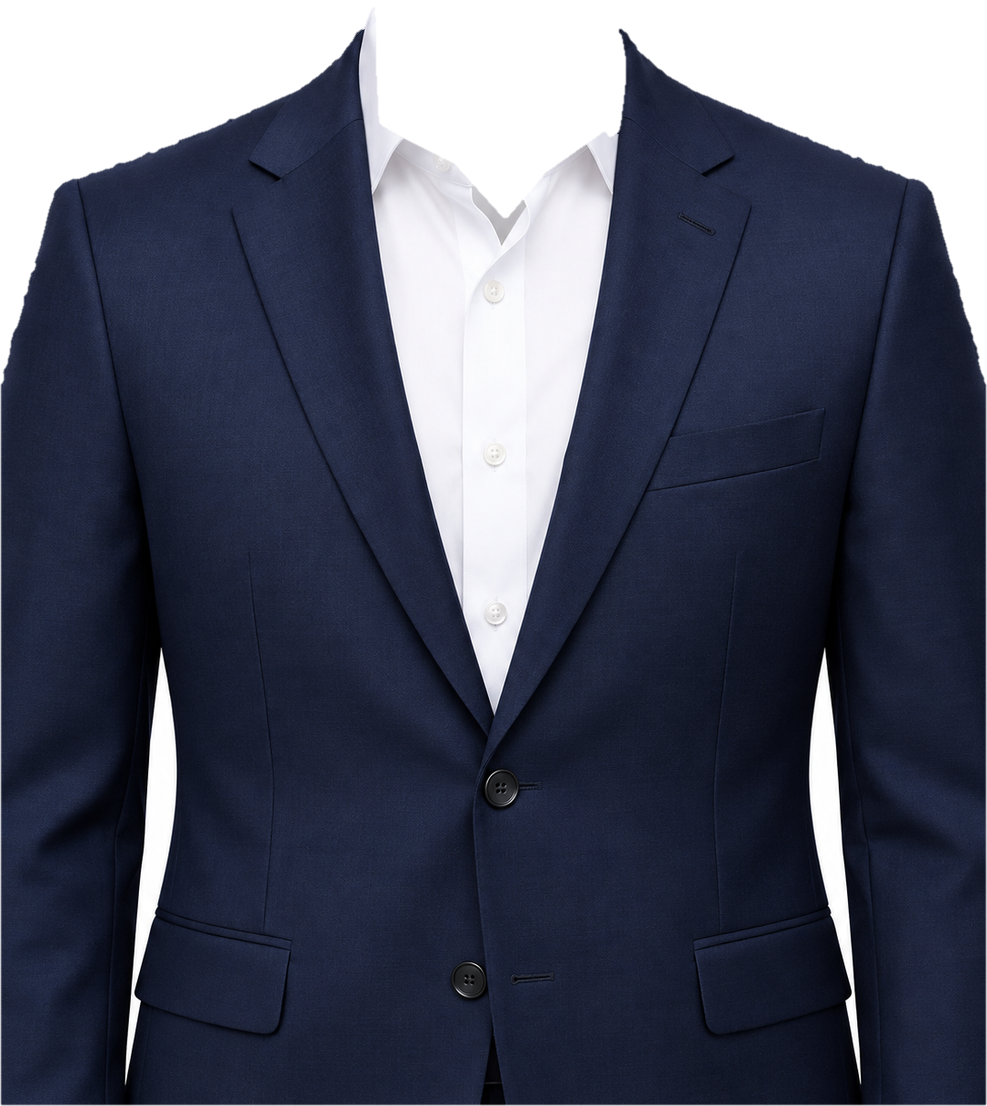
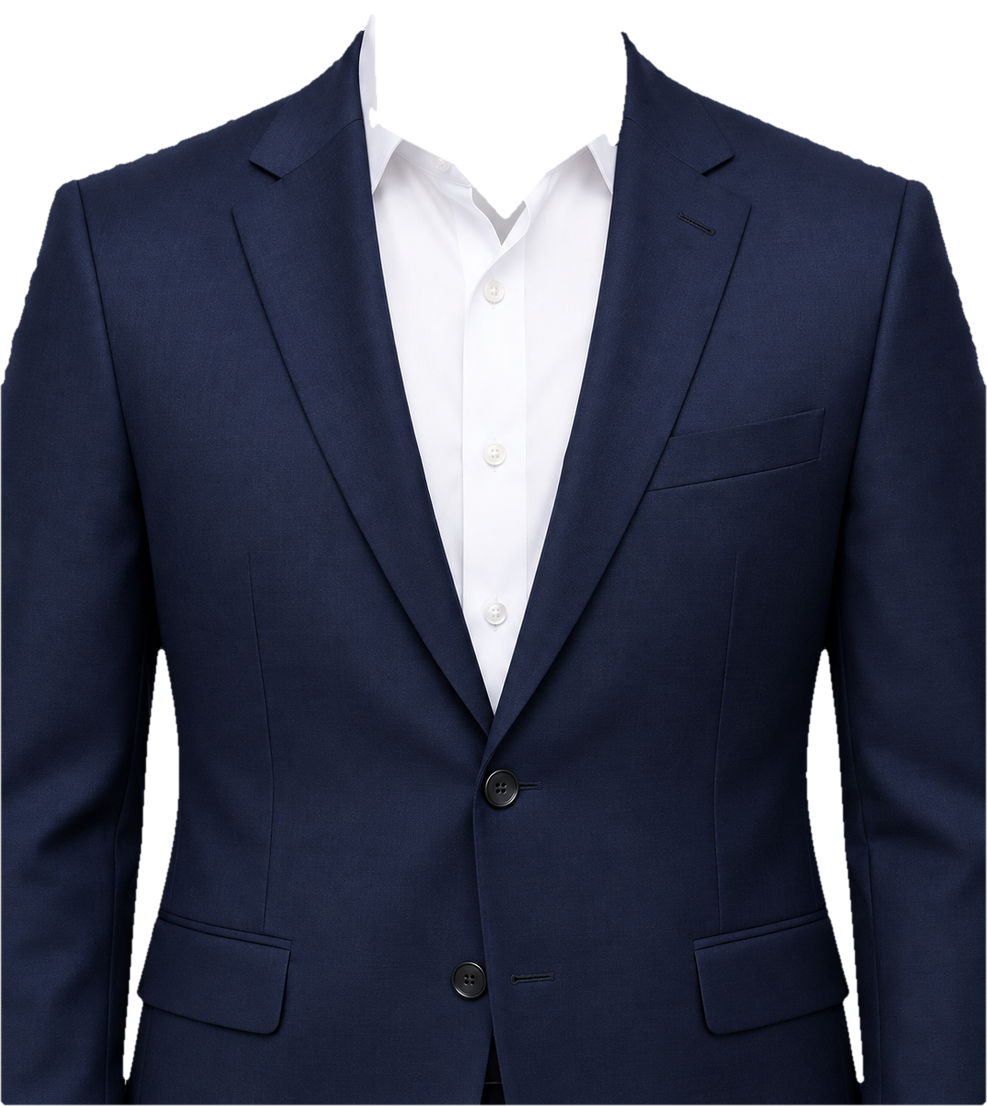
v2.7.02: audit total 10 aset jas (celah lengan transparan), leher rapat otomatis tanpa slider, pembersihan samping lengan
Claude-Session: https://claude.ai/code/session_01H9v6RvzjEdCecseBnBHk3u

diff --git a/index.html b/index.html
@@ -373,12 +373,7 @@ dialog .btn{margin-top:18px;width:100%}
         <input type="range" id="aSize" min="40" max="250" value="100">
         <span id="aSizeVal">100%</span>
       </div>
-      <div class="zoomrow" id="aNeckRow">
-        <span class="lbl">Batas leher</span>
-        <input type="range" id="aNeck" min="15" max="100" value="45">
-        <span id="aNeckVal">45%</span>
-      </div>
-      <p class="note">Ketuk jas atau dasi di foto untuk memilih. Geser satu jari untuk memindahkan, cubit dua jari untuk ukuran. Ketuk dan tahan dasi untuk memunculkan 8 titik, lalu tarik titik untuk membuat dasi kurus, gendut, panjang, atau pendek. Ketuk di luar dasi untuk menyembunyikan titik. Batas leher mengatur seberapa jauh leher atau kerudung terlihat di dalam kerah; di bawahnya diisi kemeja.</p>
+      <p class="note">Ketuk jas atau dasi di foto untuk memilih. Geser satu jari untuk memindahkan, cubit dua jari untuk ukuran. Ketuk dan tahan dasi untuk memunculkan 8 titik, lalu tarik titik untuk membuat dasi kurus, gendut, panjang, atau pendek. Ketuk di luar dasi untuk menyembunyikan titik.</p>
       <button class="btn block" id="aReset">Atur ulang posisi</button>
       <p class="msg" id="msg4"></p>
     </div>
@@ -389,7 +384,7 @@ dialog .btn{margin-top:18px;width:100%}
 
 <dialog id="about">
   <h2>SmartBG</h2>
-  <p class="ver">Versi 2.7.01</p>
+  <p class="ver">Versi 2.7.02</p>
 
   <h4>Deskripsi singkat</h4>
   <p>Aplikasi penghapus latar belakang pas foto. Pilih warna latar (putih, merah, biru, dan lainnya), rapikan tepi, ubah rasio, lalu simpan atau bagikan.</p>
@@ -502,6 +497,11 @@ function jasInfo(item,img){
   const top=new Int32Array(w).fill(-1);
   for(let i=0;i<w;i++){ for(let y=0;y<h;y++) if(d[(y*w+i)*4+3]>=128){ top[i]=y; break; } }
   let jl=0, jr=w-1; while(jl<w&&top[jl]<0) jl++; while(jr>0&&top[jr]<0) jr--;
+  // garis potong luar: dari tengah ke samping tidak boleh turun lebih curam dari bahu,
+  // agar celah di samping lengan (lengan melebar ke bawah) ikut dibersihkan
+  const cut=Float32Array.from(top,v=>v<0?1e9:v), sl=1.2;
+  for(let i=cx-1;i>=0;i--) cut[i]=Math.min(cut[i],cut[i+1]+sl);
+  for(let i=cx+1;i<w;i++) cut[i]=Math.min(cut[i],cut[i-1]+sl);
   const spans=[]; let vy=0;
   for(let y=0;y<h;y++){
     const r=y*w; if(d[(r+cx)*4+3]>=128){ vy=y; break; }
@@ -511,23 +511,31 @@ function jasInfo(item,img){
     spans.push([l-dil, rr+dil]);
   }
   if(!vy) vy=item.leherV;
-  let sr=0,sg=0,sb=0,n=0;                        // warna kemeja tepat di bawah ujung V
-  for(let y=vy+6;y<Math.min(h,vy+40);y+=2) for(let i=cx-14;i<=cx+14;i+=2){
-    const o=(y*w+i)*4; if(d[o+3]<200) continue; sr+=d[o]; sg+=d[o+1]; sb+=d[o+2]; n++;
+  // baris di atas ujung kerah belum dibatasi kiri-kanan (lebar penuh): pakai lebar baris pertama yang terbatas
+  let y0=spans.findIndex(([l,rr])=>l>dil && rr<w-1-dil);
+  if(y0<0) y0=0;
+  for(let y=0;y<y0;y++) spans[y]=spans[y0].slice();
+  const smp=[];                                  // warna kemeja di bawah ujung V (bagian terang, bukan bayangan)
+  for(let y=vy+6;y<Math.min(h,vy+60);y+=2) for(let i=cx-30;i<=cx+30;i+=2){
+    const o=(y*w+i)*4; if(i<0||i>=w||d[o+3]<220) continue; smp.push([d[o],d[o+1],d[o+2],d[o]+d[o+1]+d[o+2]]);
   }
+  smp.sort((a,b)=>a[3]-b[3]);
+  let sr=0,sg=0,sb=0,n=0;
+  for(let q=Math.floor(smp.length*0.55);q<Math.floor(smp.length*0.9);q++){ sr+=smp[q][0]; sg+=smp[q][1]; sb+=smp[q][2]; n++; }
   const shirt=n?[sr/n,sg/n,sb/n]:[240,240,240];
-  const o={w,h,top,jl,jr,spans,vy,cx,shirt}; A.info[item.id]=o; return o;
+  const o={w,h,top,cut,jl,jr,spans,vy,cx,shirt,y0,d}; A.info[item.id]=o; return o;
 }
-// Garis batas leher (baris aset) pada kolom x: makin dalam di tengah, naik ke tepi kerah
+// Garis batas leher (baris aset) pada kolom x: makin dalam di tengah, naik ke tepi kerah. Tetap, tanpa slider
 function neckLine(I,x){
-  const half=Math.max(1,(I.spans[0]?(I.spans[0][1]-I.spans[0][0])/2:120));
+  const hs=I.spans[I.y0]||[I.cx-120,I.cx+120], half=Math.max(1,(hs[1]-hs[0])/2);
   const t=Math.min(1,Math.abs(x-I.cx)/half);
-  return I.vy*A.neck*(1-0.6*t*t) + 0.1*I.vy*(1-t);   // berbentuk U: tepi kerah lebih tinggi
+  const D=Math.max(20,Math.min(0.36*240, I.vy-I.y0-12));   // leher terlihat sedalam ini dari ujung kerah
+  return I.y0 + D*(1-0.55*t*t);                              // lengkung lembut, tepi kerah lebih tinggi
 }
 // Batas potong foto asli pada kolom aset x: di bawah garis ini tubuh lama disembunyikan
 function cutRow(I,x){
-  const t=I.top[x]; if(t<0) return 0;
-  const inHole=I.spans[0] && x>=I.spans[0][0] && x<=I.spans[0][1];
+  const t=I.cut[clamp(Math.round(x),0,I.w-1)]; if(t>=1e9) return 0;
+  const hs=I.spans[I.y0], inHole=hs && x>=hs[0] && x<=hs[1];
   return inHole ? Math.min(t, neckLine(I,x)) : t+2;
 }
 // Topeng "sembunyikan" (resolusi 1/2, koordinat foto). Di dalam lebar jas mengikuti garis atas jas,
@@ -535,46 +543,63 @@ function cutRow(I,x){
 function hideMask(){
   if(!(S.mask && A.placed && A.jas && A.jasImg)) return null;
   const W=S.img.width, H=S.img.height, q=2, w=Math.ceil(W/q), h=Math.ceil(H/q), soft=!A.drag;
-  const key=[A.jas.id,A.tx.toFixed(1),A.ty.toFixed(1),A.k.toFixed(4),A.neck,W,H,soft].join('|');
+  const key=[A.jas.id,A.tx.toFixed(1),A.ty.toFixed(1),A.k.toFixed(4),W,H,soft].join('|');
   if(A.hm2 && A.hmKey===key) return A.hm2;
   if(!A.hm || A.hm.width!==w || A.hm.height!==h){ A.hm=mk(w,h); A.hm2=mk(w,h); }
   const I=jasInfo(A.jas,A.jasImg), k=A.k, ox=A.tx-A.jas.leherX*k, oy=A.ty;
   const X=x=>(ox+x*k)/q, Y=y=>(oy+y*k)/q;
   const m=A.hm.getContext('2d');
   m.setTransform(1,0,0,1,0,0); m.clearRect(0,0,w,h); m.fillStyle='#fff';
-  const yc=Y(Math.max(0,I.top[I.jl]>=0?Math.min(I.top[I.jl],I.top[I.jr]):0));
-  m.fillRect(0,Y(0),Math.max(0,X(I.jl)),h);                    // kiri luar jas
-  m.fillRect(X(I.jr),Y(0),Math.max(0,w-X(I.jr)),h);            // kanan luar jas
-  m.beginPath(); m.moveTo(X(I.jl),h+2);
+  // satu bentuk utuh (tanpa sambungan): luar jas kiri, garis atas jas, luar jas kanan
+  m.beginPath(); m.moveTo(-4,h+4); m.lineTo(-4,Y(cutRow(I,0)));
   const st=Math.max(1,Math.round(1.5*q/k));
-  for(let x=I.jl;x<=I.jr;x+=st) m.lineTo(X(x),Y(cutRow(I,x)));
-  m.lineTo(X(I.jr),Y(cutRow(I,I.jr))); m.lineTo(X(I.jr),h+2); m.closePath(); m.fill();
+  for(let x=0;x<I.w;x+=st) m.lineTo(X(x),Y(cutRow(I,x)));
+  m.lineTo(X(I.w-1),Y(cutRow(I,I.w-1))); m.lineTo(w+4,Y(cutRow(I,I.w-1))); m.lineTo(w+4,h+4); m.closePath(); m.fill();
   const m2=A.hm2.getContext('2d'); m2.setTransform(1,0,0,1,0,0); m2.clearRect(0,0,w,h);
-  if(soft){ try{ m2.filter='blur('+Math.max(0.6,0.006*240*k/q).toFixed(2)+'px)'; }catch(_){} }
+  if(soft){ try{ m2.filter='blur('+Math.max(0.8,0.014*240*k/q).toFixed(2)+'px)'; }catch(_){} }
   m2.drawImage(A.hm,0,0); m2.filter='none';
   A.hmKey=key; return A.hm2;
 }
-// Isian kemeja di lubang leher di bawah batas leher (ukuran aset), diwarnai kemeja jas itu sendiri
+// Kemeja tertutup (ukuran aset), dipasang DI BELAKANG foto orang. Kainnya diambil dari kemeja jas itu sendiri
+// (bagian di bawah ujung V dicerminkan ke atas dan direntang selebar lubang), jadi tekstur dan warnanya cocok.
+// Di atas garis leher (samping leher) kain digelapkan = sisi dalam kerah; di bawahnya bayangan leher halus.
 function shirtFill(){
-  const I=jasInfo(A.jas,A.jasImg), key=A.jas.id+'|'+A.neck;
+  const I=jasInfo(A.jas,A.jasImg), key=A.jas.id;
   if(A.fill && A.fillKey===key) return A.fill;
-  const c=A.fill&&A.fill.width===I.w&&A.fill.height===I.h?A.fill:mk(I.w,I.h), x=c.getContext('2d');
-  x.setTransform(1,0,0,1,0,0); x.globalCompositeOperation='source-over'; x.clearRect(0,0,I.w,I.h);
-  const [r,g,b]=I.shirt, col=f=>'rgb('+Math.round(r*f)+','+Math.round(g*f)+','+Math.round(b*f)+')';
-  x.fillStyle=col(1);
-  I.spans.forEach(([l,rr],y)=>x.fillRect(l,y,rr-l+1,1));
-  x.fillRect(I.cx-I.vy*0.2,I.vy-2,I.vy*0.4,12);              // menutup ujung V
-  // buang bagian di atas batas leher
-  x.globalCompositeOperation='destination-out'; x.beginPath(); x.moveTo(-5,-5);
-  for(let i=0;i<=I.w;i+=4) x.lineTo(i,neckLine(I,i)); x.lineTo(I.w+5,-5); x.closePath(); x.fill();
-  // bayangan lembut di bawah dagu/kerudung dan di tengah (kesan kain)
+  const {w,h,d,cx,vy,y0,shirt}=I, c=mk(w,h), x=c.getContext('2d');
+  const out=x.createImageData(w,h), o=out.data;
+  const far=(p)=>Math.abs(d[p]-shirt[0])+Math.abs(d[p+1]-shirt[1])+Math.abs(d[p+2]-shirt[2])>110 || d[p+3]<200;
+  const segOf=sy=>{ // kain kemeja pada baris sumber: dari tengah ke kiri/kanan sampai bukan kemeja
+    const r=sy*w; let l=cx, rr=cx;
+    while(l>0 && !far((r+l-1)*4) && cx-l<200) l--;
+    while(rr<w-1 && !far((r+rr+1)*4) && rr-cx<200) rr++;
+    return [l,rr];
+  };
+  const yEnd=Math.min(h-1,vy+14);
+  for(let y=y0;y<=yEnd;y++){
+    const sp=I.spans[Math.min(y,I.spans.length-1)]||[cx-20,cx+20];
+    let sy=Math.min(h-1, vy+8+Math.max(0,vy-y)); let seg=segOf(sy);
+    if(seg[1]-seg[0]<12){ sy=Math.min(h-1,vy+10); seg=segOf(sy); }
+    if(seg[1]-seg[0]<6) continue;
+    const L=Math.max(0,sp[0]), R=Math.min(w-1,sp[1]);
+    for(let xx=L;xx<=R;xx++){
+      // tengah tetap di tengah (belahan kancing lurus), sisi direntang
+      const f=(xx-cx)/Math.max(1,(xx<cx?cx-L:R-cx));
+      const sx=Math.round(cx+f*(xx<cx?cx-seg[0]:seg[1]-cx));
+      const sp4=(sy*w+clamp(sx,0,w-1))*4, tp=(y*w+xx)*4;
+      o[tp]=d[sp4]; o[tp+1]=d[sp4+1]; o[tp+2]=d[sp4+2]; o[tp+3]=255;
+    }
+  }
+  x.putImageData(out,0,0);
   x.globalCompositeOperation='source-atop';
-  const n0=neckLine(I,I.cx), gr=x.createLinearGradient(0,n0-0.12*I.vy,0,n0+0.18*I.vy);
-  gr.addColorStop(0,'rgba(0,0,0,.28)'); gr.addColorStop(1,'rgba(0,0,0,0)');
-  x.fillStyle=gr; x.fillRect(0,0,I.w,I.h);
-  const gx=x.createLinearGradient(I.cx-0.25*I.vy,0,I.cx+0.25*I.vy,0);
-  gx.addColorStop(0,'rgba(0,0,0,0)'); gx.addColorStop(.5,'rgba(0,0,0,.06)'); gx.addColorStop(1,'rgba(0,0,0,0)');
-  x.fillStyle=gx; x.fillRect(0,0,I.w,I.h);
+  const n0=neckLine(I,cx);
+  x.save(); x.beginPath(); x.moveTo(-5,-5);           // sisi dalam kerah (di samping leher)
+  for(let i=0;i<=w;i+=4) x.lineTo(i,neckLine(I,i)); x.lineTo(w+5,-5); x.closePath(); x.clip();
+  x.fillStyle='rgba(0,0,0,.10)'; x.fillRect(0,0,w,h); x.restore();
+  x.save(); x.beginPath(); x.moveTo(-5,h);           // bayangan leher jatuh di kemeja
+  for(let i=0;i<=w;i+=4) x.lineTo(i,neckLine(I,i)); x.lineTo(w+5,h); x.closePath(); x.clip();
+  const gs=x.createLinearGradient(0,n0-4,0,n0+0.12*240); gs.addColorStop(0,'rgba(0,0,0,.16)'); gs.addColorStop(1,'rgba(0,0,0,0)');
+  x.fillStyle=gs; x.fillRect(0,0,w,h); x.restore();
   x.globalCompositeOperation='source-over';
   A.fill=c; A.fillKey=key; return c;
 }
@@ -590,6 +615,9 @@ function drawPerson(ctx,x,y,w,h){
   t.imageSmoothingEnabled=true; t.imageSmoothingQuality='high';
   t.drawImage(source(),x,y,w,h);
   t.globalCompositeOperation='destination-out'; t.drawImage(hm,x,y,w,h);
+  const sc=w/S.img.width, k=A.k;                    // sisi dalam kerah di belakang leher (tidak ada celah warna latar)
+  t.globalCompositeOperation='destination-over';
+  t.drawImage(shirtFill(), x+(A.tx-A.jas.leherX*k)*sc, y+A.ty*sc, A.jas.lebar*k*sc, A.jas.tinggi*k*sc);
   t.globalCompositeOperation='source-over'; t.setTransform(1,0,0,1,0,0);
   ctx.save(); ctx.setTransform(1,0,0,1,0,0); ctx.drawImage(A.tmp,0,0); ctx.restore();
 }
@@ -605,7 +633,6 @@ function drawAttrs(ctx){
   ctx.imageSmoothingEnabled=true; ctx.imageSmoothingQuality='high';
   const k=A.k;
   if(A.jas && A.jasImg){
-    ctx.drawImage(shirtFill(), A.tx-A.jas.leherX*k, A.ty, A.jas.lebar*k, A.jas.tinggi*k);
     ctx.drawImage(A.jasImg, A.tx-A.jas.leherX*k, A.ty, A.jas.lebar*k, A.jas.tinggi*k);
   }
   const bx=A.dasiImg?tieBox():null;
@@ -2427,7 +2454,7 @@ $('aSize').addEventListener('input',e=>{
   aChanged();
 });
 document.querySelectorAll('#aSelSeg button').forEach(b=>b.onclick=()=>{ aSetSel(b.dataset.sel); aTieEdit(b.dataset.sel==='dasi'); });
-$('aNeck').addEventListener('input',e=>{ A.neck=+e.target.value/100; $('aNeckVal').textContent=e.target.value+'%'; requestDraw(); });
+
 $('aReset').onclick=async()=>{
   if(!S.mask||S.busy||!A.placed) return;
   setBusy(true,'Mengatur ulang posisi…');

diff --git a/docs/STATUS.md b/docs/STATUS.md
@@ -52,6 +52,13 @@ Tujuan sama: pas foto, hapus background, pilih warna latar, ubah rasio, ekspor. 
 - Catatan: jas wol dan blazer hitam dipotong di atas saku; blazer hitam punya celah gelap kecil di sisi pinggang (bagian dalam jas)
 - Total aset ±15 MB; berkas ini terpisah dari index.html dan akan masuk bundel APK
 
+### v2.7.02 (29 Okt 2026): audit total aset jas dan leher rapat
+- Audit 10 berkas jas (repo berisi 10 jas, bukan 12): celah putih di antara lengan dan badan dibuat transparan (9 jas), celah gelap berbingkai garis di sisi Blazer Hitam dibuang, tepi dihaluskan ulang, sisa titik putih/abu di tepi dibuang. Kini hanya jas dan kemejanya yang berwarna
+- Pembersihan tubuh lama mengikuti garis atas jas sampai ke samping lengan (lengan yang melebar ke bawah tidak lagi menyisakan baju lama atau celah warna latar)
+- Slider "Batas leher" dihapus. Leher otomatis rapat: kemeja tertutup dipasang di belakang leher, kainnya diambil dari kemeja jas itu sendiri (tekstur sama), dengan sisi dalam kerah dan bayangan leher halus. Baju asli (batik, seragam) tidak tampil lagi; ujung kerudung masuk ke kerah
+- Topeng dibuat satu bentuk utuh (tanpa sambungan), tepi peralihan sedikit lebih lembut
+- Uji komputer (Chromium): 10 jas x 2 foto (pria berbatik, perempuan berkerudung berseragam pramuka), tanpa galat. Catatan: Jas Navy kadang menampakkan lipatan kecil berbentuk V di kemeja leher
+
 ### v2.7.01 (29 Okt 2026): perbaikan kecil Atribut setelah uji HP
 - Tubuh lama dibersihkan mengikuti garis atas jas (bahu dan kerah), bukan garis datar. Di luar lebar jas semua di bawah ujung kerah dibersihkan. Kerudung di atas bahu tetap utuh
 - Lubang leher: foto asli hanya tampil sampai "Batas leher" (slider baru, bawaan 45%); di bawahnya diisi warna kemeja jas itu sendiri dengan bayangan halus
